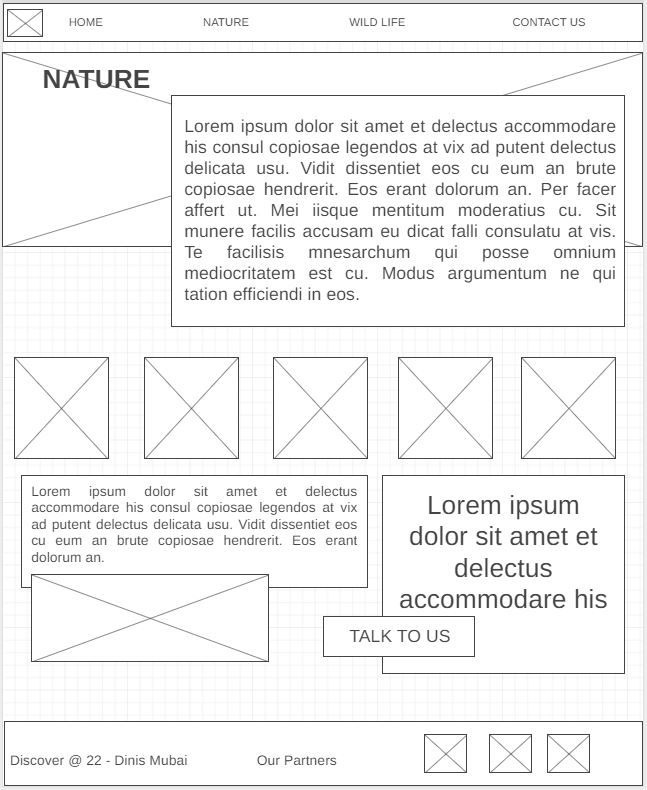
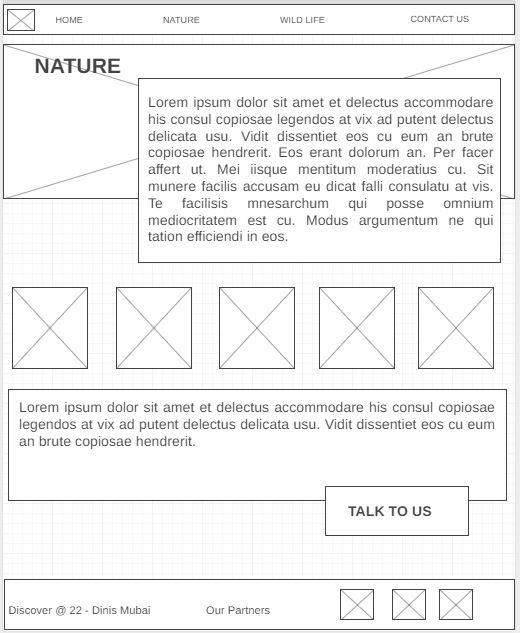
Second Page

diff --git a/discovering/styles/style.css b/discovering/styles/style.css
@@ -7,7 +7,7 @@
 
 body {
     background-color: white;
-    font-family: Helvetica, sans-serif;
+    font-family: "Helvetica", "sans-serif", "Courier New";
     font-size: 22px;
     margin: 0;
     padding: 0;
@@ -29,7 +29,7 @@ footer {
     display: flex;
     justify-content: space-around;
     align-items: center;
-    font-family: "Open Sans", "sans-serif";
+    font-family: "Open Sans", "sans-serif", "Courier New";
     color: white;
     font-size: 1.5em;
     font-weight: 400;
@@ -56,7 +56,7 @@ nav a {
     text-align: center;
     text-decoration: none;
     padding: 35px;
-    font-family: "Open Sans", "sans-serif";
+    font-family: "Open Sans", "sans-serif", "Courier New";
     color: white;
     font-size: 2em;
     font-weight: 600;
@@ -88,7 +88,7 @@ nav a {
     top: 10px;
     width: 100%;
     text-align: center;
-    font-family: "Indie Flower", "Open Sans", "sans-serif";
+    font-family: "Indie Flower", "Open Sans", "sans-serif", "Courier New";
   }
    
   
@@ -106,7 +106,7 @@ nav a {
 }
 
 #real-life h1, h2{
-    font-family: "Open Sans", "sans-serif";
+    font-family: "Open Sans", "sans-serif", "Courier New";
 }
 
 #real-life h1 {
@@ -137,7 +137,7 @@ nav a {
     background-color: #FCCA46;
     color: white;
     text-decoration: none;
-    font-family: "Open Sans", "Arial", "sans-serif";
+    font-family: "Open Sans", "Arial", "sans-serif", "Courier New";
     font-size: 1em;
     font-weight: 900;
     padding: 2em 9em;
@@ -149,7 +149,7 @@ nav a {
     background-color: #FCCA46;
     color: white;
     text-decoration: none;
-    font-family: "Open Sans", "Arial", "sans-serif";
+    font-family: "Open Sans", "Arial", "sans-serif", "Courier New";
     font-size: 25px;
     padding: 2em 9em;
     margin: 50px;
@@ -214,7 +214,7 @@ nav a {
     width: 100%;
 }
 
-#last-section {
+    #last-section p{
     /*height: 40%;*/
     background-color: #619B8A;
     line-height: 1.5em;
@@ -224,8 +224,81 @@ nav a {
     font-size: 1.5em;
 }
 
+#last-content-grid {
+    display: grid;
+    grid-template-columns: 5% 35% 10% 10% 5% 15% 20%;
+    grid-template-rows: 60% 5% 15% 15% 5%;
+    /*column-gap: 1px;*/
+    /*border: 3px solid black;*/
+}
+
+#section-text {
+    /*border: 3px solid black;*/
+    grid-column: 1/5;
+    grid-row: 1/3;
+}
+
+#talktous {
+    /*border: 3px solid black;*/
+    background-color: #619B8A;
+    grid-column: 6/8;
+    grid-row: 1/6;
+}
+
+#over-image {
+    border: 3px solid black;
+    grid-column: 2/3;
+    grid-row: 2/5;
+    
+}
+
+#last-image {
+    width: 100%;
+    max-height: 100%;
+}
+
+#nature-talk-button {
+    background-color: #FCCA46;
+    /*margin-top: auto;*/
+    border-radius: 5px;
+    grid-column: 5/7;
+    grid-row: 4/5;
+    display: flex;
+    justify-content: center;
+    align-items: center;
+    font-family: "Open Sans", "Arial", "sans-serif", "Courier New";
+    font-size: 1.7em;
+}
+
+#nature-talk-button a{
+    color: white;
+    text-decoration: none;
+    font-family: "Open Sans", "Arial", "sans-serif", "Courier New";
+    font-size: 1em;
+    border-radius: 5px;
+}
+
+#talktous p{
+    line-height: 1.5em;
+    /*padding: auto;*/
+    text-align: justify;
+    color: white;
+    font-size: 1.5em;  
+}
+
+#section-text p{
+    background-color: #619B8A;
+    line-height: 1.5em;
+    /*width: 60%;*/
+    padding: 35px;
+    text-align: justify;
+    color: white;
+    font-size: 1.5em;
+    margin-left: 1em;  
+}
+
 #last-section p {
-    font-family: "Open Sans", "sans-serif";
+    font-family: "Open Sans", "sans-serif", "Courier New";
 }
 
 #top {
@@ -245,11 +318,13 @@ nav a {
     position: absolute;
     bottom: -6em;
     right: 1em;
+    opacity: 0.9;
 }
 
   #top-left h1{
     color: white;
     font-size: 4em;
+    font-family: "Indie Flower", "Open Sans", "sans-serif", "Courier New";
   }
 
 #top-image {
@@ -257,6 +332,7 @@ nav a {
     width: 100%;
     height: 25em;
 }
+
 
 #top-section {
     background-color: #619B8A;
@@ -266,6 +342,7 @@ nav a {
     color: white;
     font-size: 1.5em;
     width: 80%;
+    font-family: "Open Sans", "sans-serif", "Courier New";
     /*margin-top: -10em;*/
 }
 
@@ -300,36 +377,6 @@ nav a {
     margin: 1em;
 }
 
-#section-text {
-    background-color: #619B8A;
-    line-height: 1.5em;
-    padding: 35px;
-    text-align: justify;
-    color: white;
-    font-size: 1.5em;
-    width: 60%;
-    margin-left: 1em;
-    /*margin-top: -10em;*/
-}
-
-#talktous {
-    background-color: #619B8A;
-    line-height: 1.5em;
-    padding: 35px;
-    text-align: justify;
-    color: white;
-    font-size: 1.5em;
-    width: 20%;
-    margin-top: 1em;
-    /*margin-top: -10em;*/
-}
-
-#over-image {
-    margin-top: 1em;
-    height: 20%;
-    width: 20%;
-}
-
 /*#talktous {
     display: block;
     background-color: #619B8A;
@@ -346,28 +393,11 @@ nav a {
 
 #nature-grid-layout {
     display: grid;
-    display: grid;
     grid-template-columns: 1fr 1fr 1fr 1fr 1fr 1fr 1fr 1fr;
     grid-template-rows: 1fr 1fr 1fr 1fr 1fr 1fr 1fr 1fr;
     margin-top: 5px; 
 }
 
-#nature-talk-button {
-    text-align: right;
-    margin-top: 0.2em;
-
-}
-
-#nature-button {
-    background-color: #FCCA46;
-    color: white;
-    text-decoration: none;
-    font-family: "Open Sans", "Arial", "sans-serif";
-    font-size: 18px;
-    padding: 2em 9em;
-    margin: 50px;
-    border-radius: 5px;
-}
 
 .book:hover, #talk:hover {
     background-color: #233D4D;
@@ -382,6 +412,10 @@ nav a:hover {
 #grid-images1:hover, #grid-images2:hover, #grid-images3:hover, #grid-images4:hover, #grid-images5:hover, #grid-images6:hover {
     opacity: 0.5;
   }
+
+.row-images:hover  {
+    opacity: 0.5;
+}
 
 
 

diff --git a/discovering/nature.html b/discovering/nature.html
@@ -33,12 +33,10 @@
                 <div id="top-section">
                     <p>
                         How do you feel about exploring and discovering new things? This is the proposal that we bring here in this 
-                        wonderful adventure. To be connected with mother nature make us feel like we are part of something great and we are. 
+                        wonderful adventure. To be connected with mother nature make us feel like we are part of something great and, we are. 
                         When we are out there, contemplating all the beauty and wonders, we feel at peace and our minds get clear. Como enjoys 
                         these feelings here in Mozambique. If you are fond of mountain climbing, wild walks, natural sightseeing, and taking 
-                        pictures, this is the place you want to go. Come have unforgettable moments on Mount Binga which is the highest mountain 
-                        in Mozambique and visit the mountain that cries, yes, it cries and to make it more interesting it does look like a person 
-                        head. 
+                        pictures, this is the place you want to go. 
                     </p>
     
                 </div>
@@ -46,47 +44,34 @@
             
             <div id="nature-pictures">
                 <div id="nature-grid-images1">
-                    <img class="row-images" src="images/page22.jpg" alt="pitures" >
+                    <img class="row-images" src="images/nature1.jpg" alt="pitures" >
                 </div>
                 <div id="nature-grid-images2">
-                    <img class="row-images" src="images/page22.jpg" alt="pitures" >
+                    <img class="row-images" src="images/nature2.jpg" alt="pitures" >
                 </div>
                 <div id="nature-grid-images3">
-                    <img class="row-images" src="images/page22.jpg" alt="pitures" >
+                    <img class="row-images" src="images/nature3.jpg" alt="pitures" >
                 </div>
                 <div id="nature-grid-images4">
-                    <img class="row-images" src="images/page22.jpg" alt="pitures" >
+                    <img class="row-images" src="images/nature4.jpg" alt="pitures" >
                 </div>
                 <div id="nature-grid-images5">
-                    <img class="row-images" src="images/page22.jpg" alt="pitures" >
+                    <img class="row-images" src="images/nature5.jpg" alt="pitures" >
                 </div>  
             </div>
 
-            
-                <div id="section-text">
+                <div id="last-section">
+                    
                     <p>
                         Come have unforgettable moments on Mount Binga which is the highest mountain 
-                        in Mozambique and visit the mountain that cries, yes, it cries and to make it more interesting it does look like a person 
-                        head.
+                        in Mozambique and visit the mountain that cries, yes, it cries and to make it more interesting it does look like a person's 
+                        head. Don't miss out. The beauty of Nature waits for you. Come and explore.
                     </p>
                 </div>
-
-                <div id="talktous">
-                    <p>
-                        Don't miss out. The beauty of Nature waits for you. Come and explore.
-                    </p>
+                <div id="talk-button-box">
+                    <a id="talk" href="contactus.html">TALK TO US</a>
                 </div>
-
-                <div id="over-image">
-                    <img class="row-images" src="images/page22.jpg" alt="pitures" >
-                </div> 
-
-                <div id="nature-talk-button">
-                    <a id="nature-button" href="contactus.html">TALK TO US</a>
-                </div>
-
-            
-            
+    
         </main>
         <footer>
             <h3>Discover Moz &copy; 2022 - Dinis Mubai</h3>

diff --git a/discovering/site-plan.html b/discovering/site-plan.html
@@ -152,7 +152,7 @@
       </p>
       <p>Images for the Page 2</p>
         <img src="images/page21.jpg" alt="image for page" />
-        <img src="images/page22.jpg" alt="image for page" />
+        <img src="images/nature1.jpg" alt="image for page" />
 
       </ul>
       <h3>Wild Life</h3>
